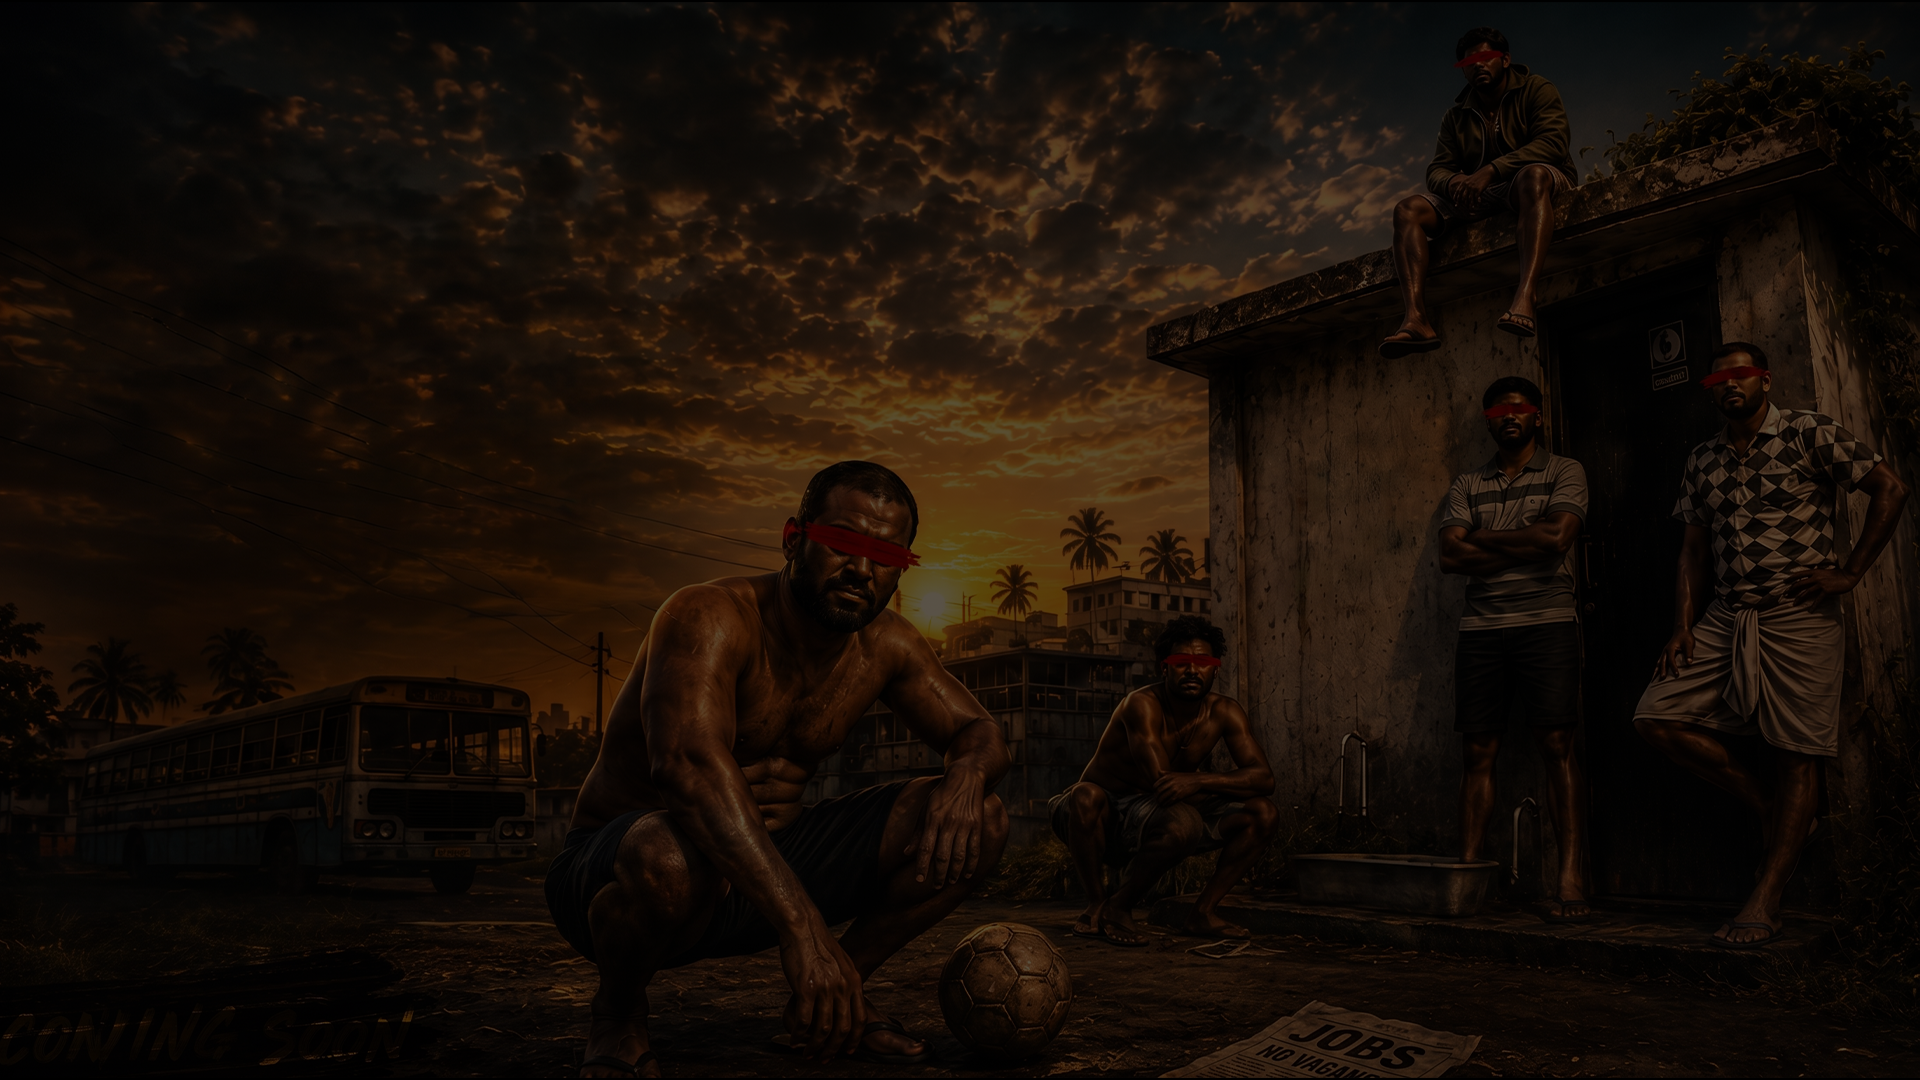
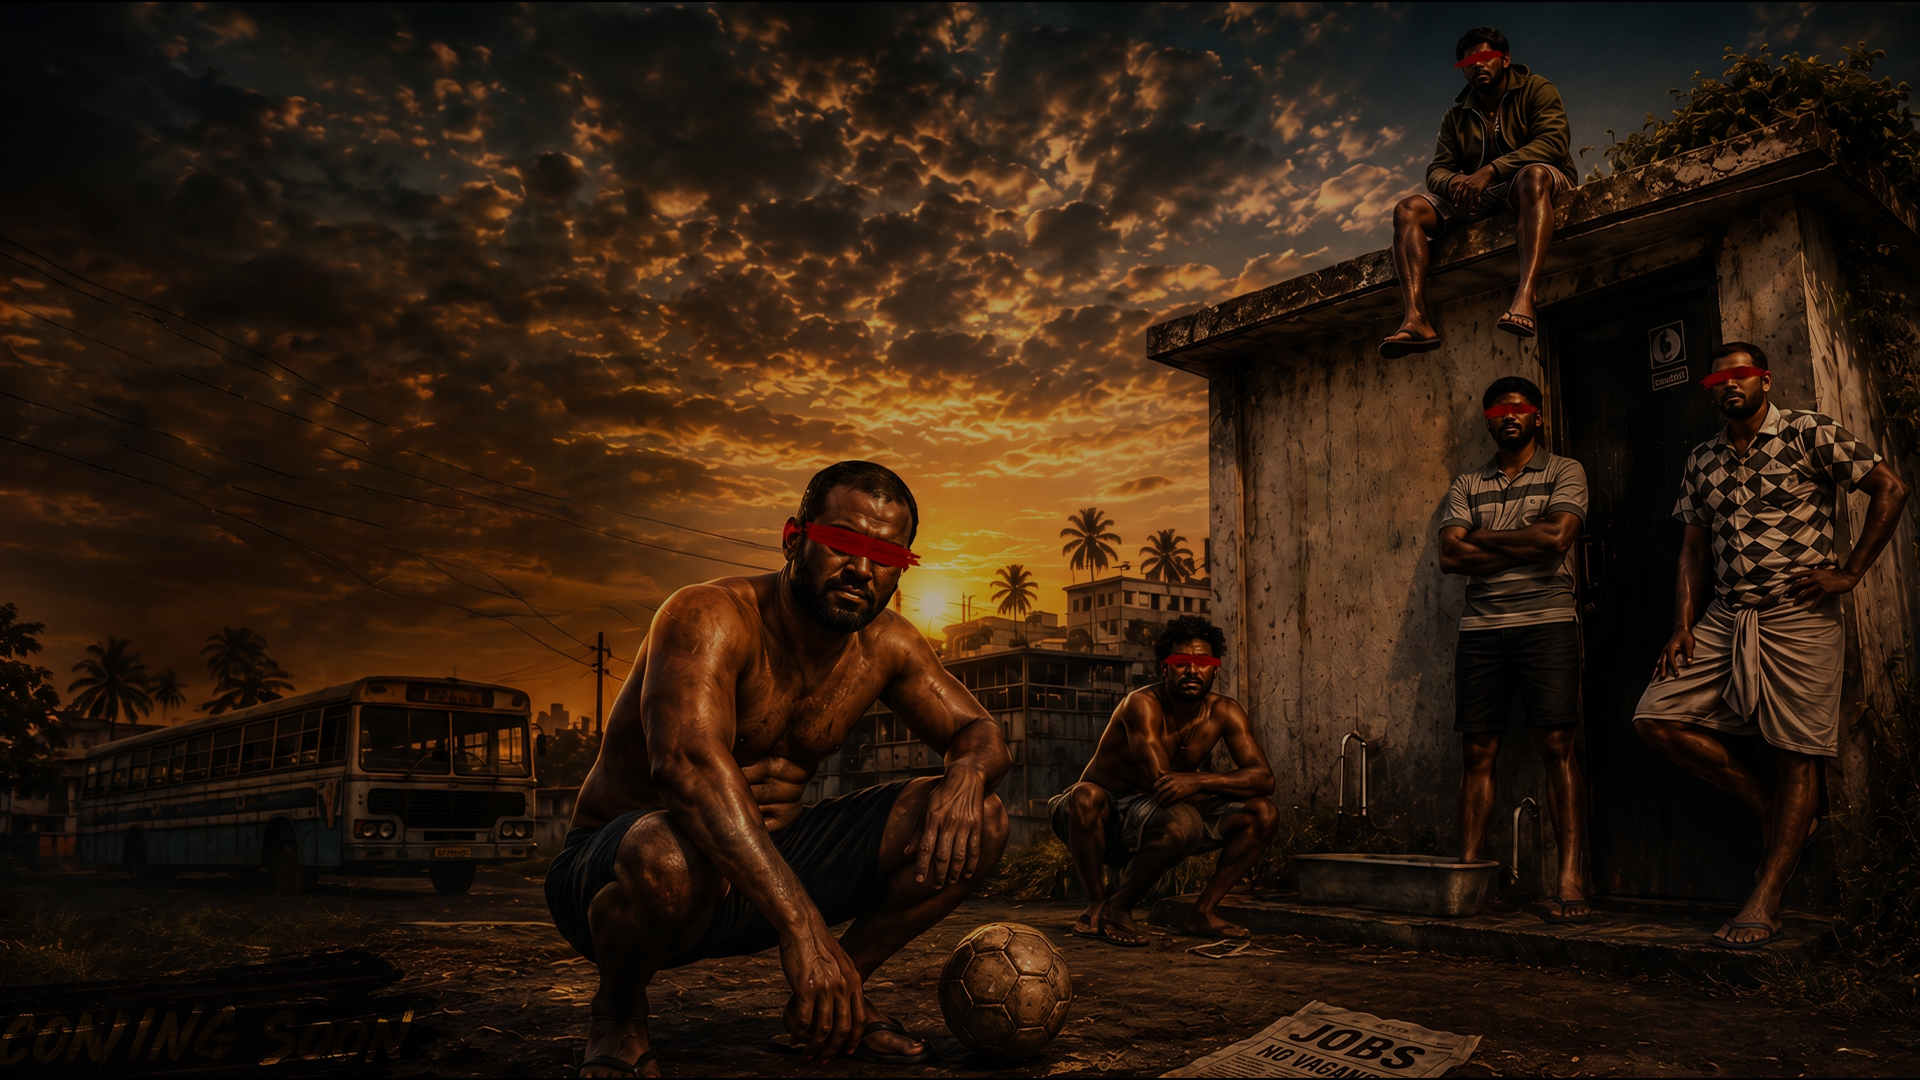
pages page updated v6

diff --git a/pages/hardy-boys.html b/pages/hardy-boys.html
@@ -156,7 +156,7 @@ function pagePath(n){
 //      crypto.subtle.digest('SHA-256', new TextEncoder().encode('theirpassword'))
 //        .then(b => console.log(Array.from(new Uint8Array(b)).map(x=>x.toString(16).padStart(2,'0')).join('')))
 const PRODUCERS = {
-  "Nadeesha Hemamali": {
+  "nadeeshah": {
     name: "Nadeesha Hemamali",
     email: "nadeesha.hemamali@gmail.com",
[1 lines of base64/hex data omitted]
